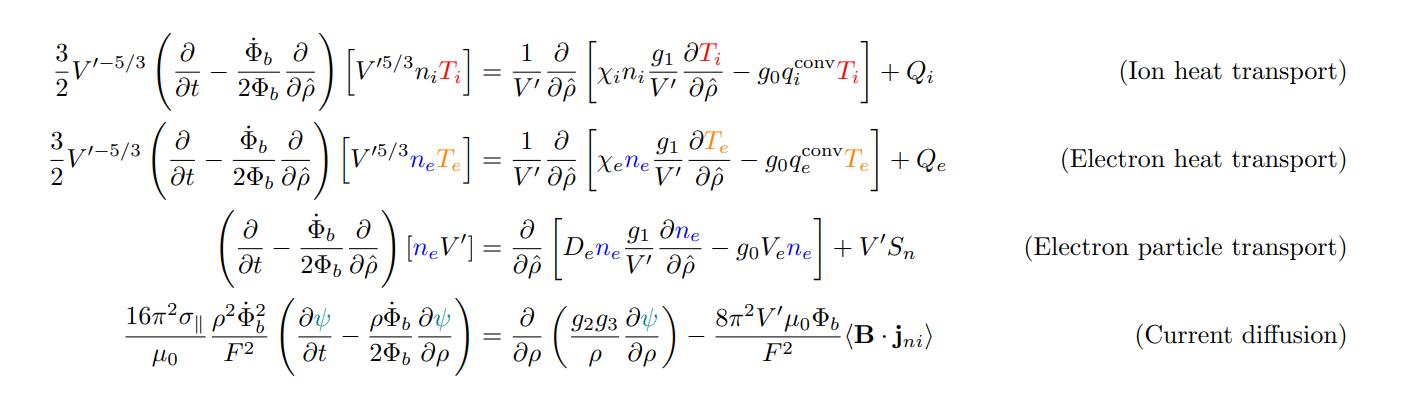
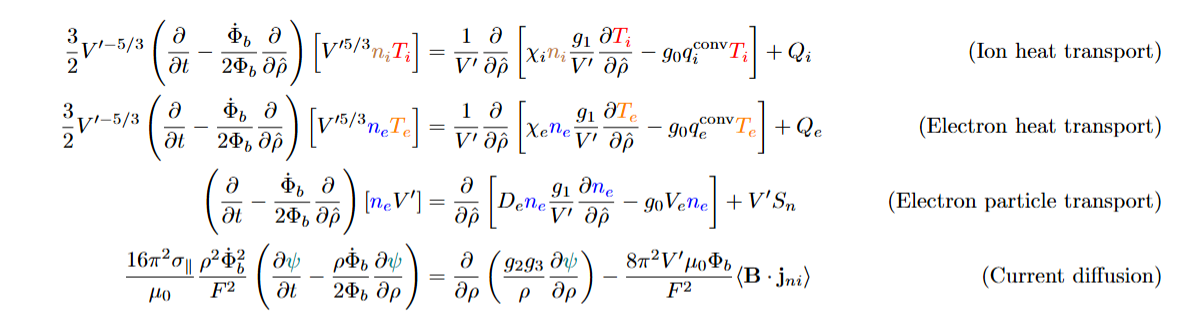
new

diff --git a/content/posts/torax/index.md b/content/posts/torax/index.md
@@ -26,18 +26,34 @@ I think there are 3 major milestones remaining for humanity and one of them is *
 
 Recently, I saw thatDeepMind has made significant strides in this area by developing advanced AI models to optimize the control of tokamak reactors [[3]](#references). I read the associated paper and code and I wanted to summarize what I learned about the underlying mathematics and code behind the scenes.
 
+The idea is to simulate plasma inside a tokamak reactor (a toroidal chamber or doughnut-shaped device). The equations governing the behavior of the plasma are 4 Heat/Diffufions-based equations (Parabolic PDEs) in 1D. 
+
+$$ \frac{\partial u}{\partial t} = \nabla \cdot (D \nabla u) + \text{Sources} $$
+
+The interesting thing is we use toroidal flux coordinates, which simplifies the complex 3D geometry of the tokamak into a 1D radial coordinate system based on magnetic flux surfaces.
+
+
 ![alt text](tokamak.png)
 *Source: [[2]](#references)*
 
+## Introduction
 
-TORAX solves coupled 1D PDEs in normalized toroidal flux coordinates, $\hat \rho$, with $0 \leq \hat \rho \leq 1.$
+
+
+We have 4 PDE equations and 5 variables in normalized toroidal flux coordinates, $\hat \rho$, with $0 \leq \hat \rho \leq 1$. The important quantities being modeled are:
+
+*   **${\color{red}{T_i}}, {\color{orange}{T_e}}$**: Ion and Electron **Temperatures** (Energy per particle). High temperature is required for fusion.
+*   **${\color{brown}{n_i}}, {\color{blue}{n_e}}$**: Ion and Electron **Densities** (Particles per cubic meter). However, we do not model ion density explicitly, it is computed from electron density assuming quasi-neutrality.
+*   **${\color{teal}{\psi}}$**: **Poloidal Magnetic Flux**. This describes the magnetic field structure and stability.
 
 ![alt text](equations.png)
+
+Here we summarize the variables and parameters used in the equations:
 
 | Symbol | Description | Units / Notes |
 |:-------|:-------------|:--------------|
 | $ {\color{red}{T_i}}, {\color{orange}{T_e}} $ | Ion and electron temperatures | keV or eV |
-| $ n_i, {\color{blue}{n_e}} $ | Ion and electron densities | m⁻³ |
+| $ {\color{brown}{n_i}}, {\color{blue}{n_e}} $ | Ion and electron densities | m⁻³ |
 | $ {\color{teal}{\psi}} $ | Poloidal magnetic flux | Wb (Weber) |
 | $ \Phi(\psi) $ | Toroidal magnetic flux enclosed by the magnetic poloidal flux surface | Wb |
 | $ \Phi_b $ | Toroidal flux enclosed by the plasma boundary (last-closed-flux surface) | Wb |
@@ -61,9 +77,10 @@ TORAX solves coupled 1D PDEs in normalized toroidal flux coordinates, $\hat \rho
 | $ S_n $ | Total electron particle source | 1/s or m⁻³·s⁻¹ |
 | $ \mathbf{j}_{ni} $ | Non-inductive current density (bootstrap + external drive) | A/m² |
 | $ I_p $ | Total plasma current | A |
-| $ J $ | Total toroidal plasma current density | A/m² |
+| $ J $ | Jacobian determinant or related geometric factor (see text) | — |
 | $ R_0 $ | Major radius at magnetic axis | m |
 | $ \langle \cdot \rangle $ | Flux-surface average | — |
+
 
 **Boundary Conditions:**
 The boundary conditions are as follows. All equations have a zero-derivative boundary condition at $\hat{\rho} = 0$ (Von-Neumann). 
@@ -111,7 +128,7 @@ Using
 $$
 q_\alpha+\frac{5}{2}T_\alpha\Gamma_\alpha
 \quad\equiv\quad
--\Big(\chi_\alpha n_\alpha \frac{g_1}{V'}\frac{\partial T_\alpha}{\partial\hat\rho}\ -\ g_0,q_\alpha^{\mathrm{conv}},T_\alpha\Big),
+-\Big(\chi_\alpha n_\alpha \frac{g_1}{V'}\frac{\partial T_\alpha}{\partial\hat\rho}\ -\ g_0 q_\alpha^{\mathrm{conv}} T_\alpha\Big),
 $$
 we get to the final form of the ion and electron heat transport equations.
 
@@ -121,42 +138,30 @@ $$
 \begin{aligned}
 \frac{3}{2} V'^{-5/3}
 \left( 
-\frac{\partial}{\partial t}
-- \frac{\dot{\Phi}_b}{2\Phi_b} 
+\frac{\partial}{\partial t} - \frac{\dot{\Phi}_b}{2\Phi_b} 
 \frac{\partial}{\partial \hat{\rho}}
 \right)
 \left[ 
 V'^{5/3} n_i {{T_i}}
-\right]
-&=
+\right] &=
 \frac{1}{V'} 
 \frac{\partial}{\partial \hat{\rho}}
-\left[
-\chi_i n_i 
-\frac{g_1}{V'} 
-\frac{\partial {T_i}}{\partial \hat{\rho}}
-- g_0 q_i^{\text{conv}} {T_i}
-\right]
-+ Q_i \\
+\left[ \chi_i n_i \frac{g_1}{V'} 
+\frac{\partial {T_i}}{\partial \hat{\rho}} - g_0 q_i^{\text{conv}} {T_i}
+\right] + Q_i \\
 \frac{3}{2} V'^{-5/3}
-\left( 
-\frac{\partial}{\partial t}
-- \frac{\dot{\Phi}_b}{2\Phi_b} 
-\frac{\partial}{\partial \hat{\rho}}
+\left(  \frac{\partial}{\partial t} - \frac{\dot{\Phi}_b}{2\Phi_b} \frac{\partial}{\partial \hat{\rho}}
 \right)
 \left[ 
 V'^{5/3} {n_e} {T_e}
-\right]
-&=
+\right] &=
 \frac{1}{V'} 
 \frac{\partial}{\partial \hat{\rho}}
 \left[
 \chi_e {n_e} 
 \frac{g_1}{V'} 
-\frac{\partial {T_e}}{\partial \hat{\rho}}
-- g_0 q_e^{\text{conv}} {T_e}
-\right]
-+ Q_e 
+\frac{\partial {T_e}}{\partial \hat{\rho}} - g_0 q_e^{\text{conv}} {T_e}
+\right] + Q_e 
 \end{aligned}\;}
 $$
 
@@ -171,45 +176,35 @@ $$
 Here $s_\alpha$ is a localized particle source. By writing the above equation inside a toroidal flux surface we obtain
 $$
 \left(\frac{\partial}{\partial t} + \frac{\dot{B}_0}{2B_0}\rho\frac{\partial}{\partial\rho}\right)
-(\langle n_\alpha\rangle V') = -\frac{\partial\Gamma_\alpha}{\partial\rho}
-+ V'S_\alpha.\tag{1}
+(\langle n_\alpha\rangle V') = -\frac{\partial\Gamma_\alpha}{\partial\rho} + V'S_\alpha.\tag{1}
 $$
 
 A detailed derivation of the transport equations is provided in the [Appendix](#appendix).
 
 We denote $\alpha=e$ (by the electron species) and denoting $\langle n_e \rangle \equiv n_e$. Using the specific form of the *flux-surface averaged radial particle flux*
 $$
-\Gamma_e=
-- D_e n_e \frac{g_1}{V'}\frac{\partial n_e}{\partial \rho}+
+\Gamma_e=- D_e n_e \frac{g_1}{V'}\frac{\partial n_e}{\partial \rho}+
 g_0 V_e n_e.
 $$
 
 Then
 $$
--\frac{\partial \Gamma_e}{\partial \rho}=
-\frac{\partial}{\partial \rho}\Big[
-D_e n_e\frac{g_1}{V'}\frac{\partial n_e}{\partial \rho}-
-g_0 V_e n_e
-\Big].
+-\frac{\partial \Gamma_e}{\partial \rho}= \frac{\partial}{\partial \rho}\Big[ D_e n_e\frac{g_1}{V'}\frac{\partial n_e}{\partial \rho}-
+g_0 V_e n_e\Big].
 $$
 
 Plugging (1), we get:
 $$
-\Big(\frac{\partial}{\partial t}+\frac{\dot B_0}{2B_0},\rho\frac{\partial}{\partial \rho}\Big)(n_eV')
-=
-\frac{\partial}{\partial \rho}\Big[
-D_e n_e\frac{g_1}{V'}\frac{\partial n_e}{\partial \rho}-
-g_0 V_e n_e
-\Big]
-+V'S_n .
+\Big(\frac{\partial}{\partial t}+\frac{\dot B_0}{2B_0}\rho\frac{\partial}{\partial \rho}\Big)(n_eV') = \frac{\partial}{\partial \rho}\Big[ D_e n_e\frac{g_1}{V'}\frac{\partial n_e}{\partial \rho}-
+g_0 V_e n_e \Big] +V'S_n .
 $$
+
 Rewritting the grid-motion term using the *toroidal flux* $\Phi_b$ and a normalized radius $\hat\rho$. Using $\hat\rho^2 = \frac{\Phi}{\Phi_b(t)}$,
 so if $\Phi_b$ changes in time, by a chain-rule term:
+
 $$
-\left.\frac{\partial}{\partial t}\right|_{\hat\rho}
-=
-\left.\frac{\partial}{\partial t}\right|_{\Phi}
--\frac{\dot\Phi_b}{2\Phi_b}\hat\rho\frac{\partial}{\partial \hat\rho}.
+\left.\frac{\partial}{\partial t}\right|_{\hat\rho}=
+\left.\frac{\partial}{\partial t}\right|_{\Phi} +\frac{\dot\Phi_b}{2\Phi_b}\hat\rho\frac{\partial}{\partial \hat\rho}.
 $$
 
 That is exactly the operator appearing in the final equation:
@@ -221,32 +216,25 @@ $$
 Putting the pieces together gives:
 $$
 \boxed{\;
-\Big(\frac{\partial}{\partial t}-\frac{\dot\Phi_b}{2\Phi_b}\hat\rho\frac{\partial}{\partial \hat\rho}\Big)(n_eV')
-=
-\frac{\partial}{\partial \hat\rho}\Big[
-D_e n_e \frac{g_1}{V'} \frac{\partial n_e}{\partial \hat\rho}
--
-g_0 V_e n_e
-\Big]
-+V'S_n.\;}
+\Big(\frac{\partial}{\partial t}-\frac{\dot\Phi_b}{2\Phi_b}\hat\rho\frac{\partial}{\partial \hat\rho}\Big)(n_eV') =
+\frac{\partial}{\partial \hat\rho}\Big[ D_e n_e \frac{g_1}{V'} \frac{\partial n_e}{\partial \hat\rho}-g_0 V_e n_e\Big]+V'S_n.\;}
 $$
 
 
-## 1.3 Current Diffusion Equation 
+## 1.3 Current Diffusion Equation.
+
 In [Appendix](#appendix), we derived the 1D equation for the evolution of the poloidal flux $\psi$:
+
 $$
 \sigma_\parallel \left(
 \frac{\partial\psi}{\partial t} + \rho\frac{\dot{B}_0}{2B_0}\frac{\partial\psi}{\partial\rho}
-\right)
-= \frac{R_0 J^2}{\mu_0 \rho}\frac{\partial}{\partial\rho}
+\right)= \frac{R_0 J^2}{\mu_0 \rho}\frac{\partial}{\partial\rho}
 \left(\frac{G^2}{J}\frac{\partial\psi}{\partial\rho}\right)- \frac{V'}{2\pi\rho}(j_{bs} + j_{cd})
 $$
 Using the change of variables to $\hat\rho$ and $\Phi_b$, we get, as before, that:
 $$
-\left(\frac{\partial \psi}{\partial t}\right)_{\Phi}
-=
-\left(\frac{\partial \psi}{\partial t}\right)_{\hat\rho}
--\frac{\dot{\hat\Phi}_b}{2\hat\Phi_b}\hat\rho
+\left(\frac{\partial \psi}{\partial t}\right)_{\Phi}=
+\left(\frac{\partial \psi}{\partial t}\right)_{\hat\rho}-\frac{\dot{\hat\Phi}_b}{2\hat\Phi_b}\hat\rho
 \frac{\partial \psi}{\partial \hat\rho}.
 $$
 The diffusion term is
@@ -254,8 +242,8 @@ $$
 \frac{R_0J^2}{\mu_0\rho}\frac{\partial}{\partial\rho}
 \left(\frac{G_2}{J}\frac{\partial\psi}{\partial\rho}\right),
 \qquad
-J=\frac{T}{R_0B_0},\quad
-G_2=\frac{V'}{4\pi^2}\Big\langle\frac{(\nabla\rho)^2}{R^2}\Big\rangle^{-1}.
+J=\frac{F}{R_0B_0},\quad
+G_2=\frac{V'}{4\pi^2}\Big\langle\frac{(\nabla\rho)^2}{R^2}\Big\rangle.
 $$
 Transport-code forms typically package all those geometric combinations into something like
 $$
@@ -265,21 +253,34 @@ where $g_2=\langle (\nabla V)^2/R^2\rangle$ and $g_3=\langle 1/R^2\rangle$. Ther
 $$
 \boxed{\;
 \frac{16 \pi^2 \sigma_{\parallel}}{\mu_0} 
-\frac{\rho^2 \dot{\Phi}_b^2}{F^2}
+\frac{\hat\rho^2 \dot{\Phi}_b^2}{F^2}
 \left(
-\frac{\partial \psi}{\partial t}
-- \frac{\rho \dot{\Phi}_b}{2 \Phi_b} 
-\frac{\partial \psi}{\partial \rho}
-\right)
-=
-\frac{\partial}{\partial \rho}
+\frac{\partial \psi}{\partial t} - \frac{\hat\rho \dot{\Phi}_b}{2 \Phi_b} 
+\frac{\partial \psi}{\partial \hat\rho}
+\right) =
+\frac{\partial}{\partial \hat\rho}
 \left(
-\frac{g_2 g_3}{\rho} 
-\frac{\partial \psi}{\partial \rho}
-\right)
-- \frac{8 \pi^2 V' \mu_0 \Phi_b}{F^2}
+\frac{g_2 g_3}{\hat\rho} 
+\frac{\partial \psi}{\partial \hat\rho}
+\right) - \frac{8 \pi^2 V' \mu_0 \Phi_b}{F^2}
 \langle \mathbf{B} \cdot \mathbf{j}_{ni} \rangle\;}
 $$
+
+
+## Code Implementation (Torax)
+
+```python
+torax_config = torax.build_torax_config_from_file('examples/iterhybrid_rampup.py') # load Iter hybrid config
+torax_config.update_fields({
+    "numerics.fixed_dt": 1.0,
+    "numerics.t_final": 100.0, 
+})
+data_tree, state_history = torax.run_simulation(torax_config)
+data_tree.to_netcdf('iter.nc')
+```
+
+
+![](axial_layers.gif)
 ## References
 
 [1] Citrin, Jonathan, Ian Goodfellow, Akhil Raju, Jeremy Chen, Jonas Degrave, Craig Donner, Federico Felici et al. "TORAX: A fast and differentiable tokamak transport simulator in JAX." arXiv preprint arXiv:2406.06718 (2024).
@@ -347,9 +348,7 @@ $$
 Using this equality, the time rate of change of toroidal flux $\Phi$ enclosed by $\psi = \text{const}$, i.e., $F=\mathbf{B}\cdot\nabla\phi$ and $\Phi(t)=\int_V \mathbf{B}\cdot\nabla\phi\, dV$, is:
 $$
 \begin{aligned}
-\frac{\partial \Phi}{\partial t}\bigg|_{\psi=\text{const}}
-&= \frac{1}{2\pi} \frac{\partial}{\partial t} \int_V \mathbf{B}\cdot\nabla\phi\, dV \nonumber \\
-&= \frac{1}{2\pi} \int_V \frac{\partial \mathbf{B}}{\partial t}\cdot\nabla\phi\, dV + \frac{1}{2\pi} \oint_S (\mathbf{B}\cdot\nabla\phi)(\mathbf{u}_\psi\cdot\nabla\psi) \frac{dS}{|\nabla\psi|}
+\frac{\partial \Phi}{\partial t}\bigg|_{\psi=\text{const}} &= \frac{1}{2\pi} \frac{\partial}{\partial t} \int_V \mathbf{B}\cdot\nabla\phi\, dV \nonumber \\ &= \frac{1}{2\pi} \int_V \frac{\partial \mathbf{B}}{\partial t}\cdot\nabla\phi\, dV + \frac{1}{2\pi} \oint_S (\mathbf{B}\cdot\nabla\phi)(\mathbf{u}_\psi\cdot\nabla\psi) \frac{dS}{|\nabla\psi|}
 \end{aligned}\tag{A.2}
 $$
 
@@ -411,10 +410,9 @@ $$
 \begin{aligned}
 &\frac{\partial\psi}{\partial t}\bigg|_{\Phi=\text{const}}
 = \frac{\partial\psi}{\partial V}\frac{\partial V}{\partial\Phi}\frac{\partial\Phi}{\partial t}\bigg|_{\psi=\text{const}} \\
-&\frac{\partial\psi}{\partial t}\bigg|_{\rho}
-+ \frac{\partial\psi}{\partial\rho}\frac{\partial\rho}{\partial t}\bigg|_{\Phi}= -\frac{\partial V}{\partial\Phi}\langle \mathbf{E}\cdot\mathbf{B}\rangle \tag{A.3}\\
+&\frac{\partial\psi}{\partial t}\bigg|_{\rho} + \frac{\partial\psi}{\partial\rho}\frac{\partial\rho}{\partial t}\bigg|_{\Phi}= -\frac{\partial V}{\partial\Phi}\langle \mathbf{E}\cdot\mathbf{B}\rangle \tag{A.3}\\
 &\frac{\partial\psi}{\partial t}\bigg|_{\rho} - \rho\frac{\dot{B}_0}{2B_0}\frac{\partial\psi}{\partial\rho}
-= -2\pi R_0^2 \frac{\langle \mathbf{E}\cdot\mathbf{B}\rangle}{T\langle R_0^2/R^2\rangle}
+= -2\pi R_0^2 \frac{\langle \mathbf{E}\cdot\mathbf{B}\rangle}{F\langle R_0^2/R^2\rangle}
 \end{aligned}
 $$
 
@@ -422,7 +420,7 @@ Define the equivalent cylindrical fields:
 $$
 \begin{aligned}
 B_{po} &= \frac{1}{2\pi R_0} \frac{\partial\psi}{\partial\rho} \\
-E_o &= R_0 \frac{\langle \mathbf{E}\cdot\mathbf{B}\rangle}{T\langle R_0^2/R^2\rangle}
+E_o &= R_0 \frac{\langle \mathbf{E}\cdot\mathbf{B}\rangle}{F\langle R_0^2/R^2\rangle}
 \end{aligned}
 $$
 Then, for $\dot{B}_0=0$:
@@ -468,7 +466,7 @@ $\langle \nabla T\cdot\nabla\psi/R^2\rangle = \langle (\nabla\rho)^2/R^2\rangle(
 Defining $G^2\equiv \frac{V'}{4\pi^2}\left\langle \frac{(\nabla\rho)^2}{R^2} \right\rangle$ packages the terms and the product rule yields the final compact form.
 with
 $$
-J = \frac{T}{R_0 B_0}, \quad
+J = \frac{F}{R_0 B_0}, \quad
 G^2 = \frac{V'}{4\pi^2}\left\langle \frac{(\nabla\rho)^2}{R^2} \right\rangle, \quad
 V' = \frac{\partial V}{\partial\rho}
 $$
